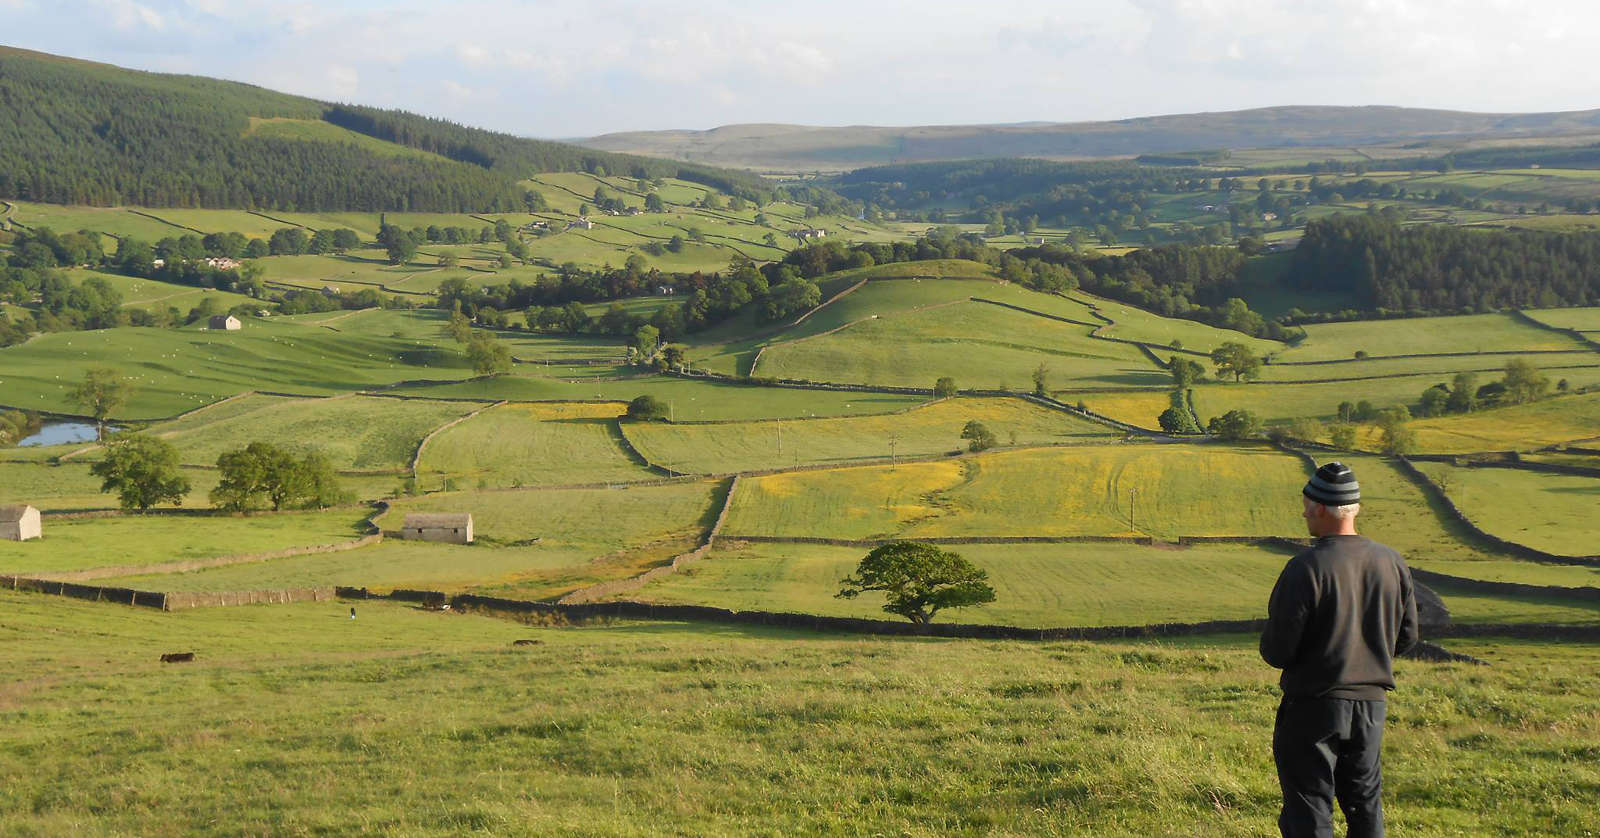
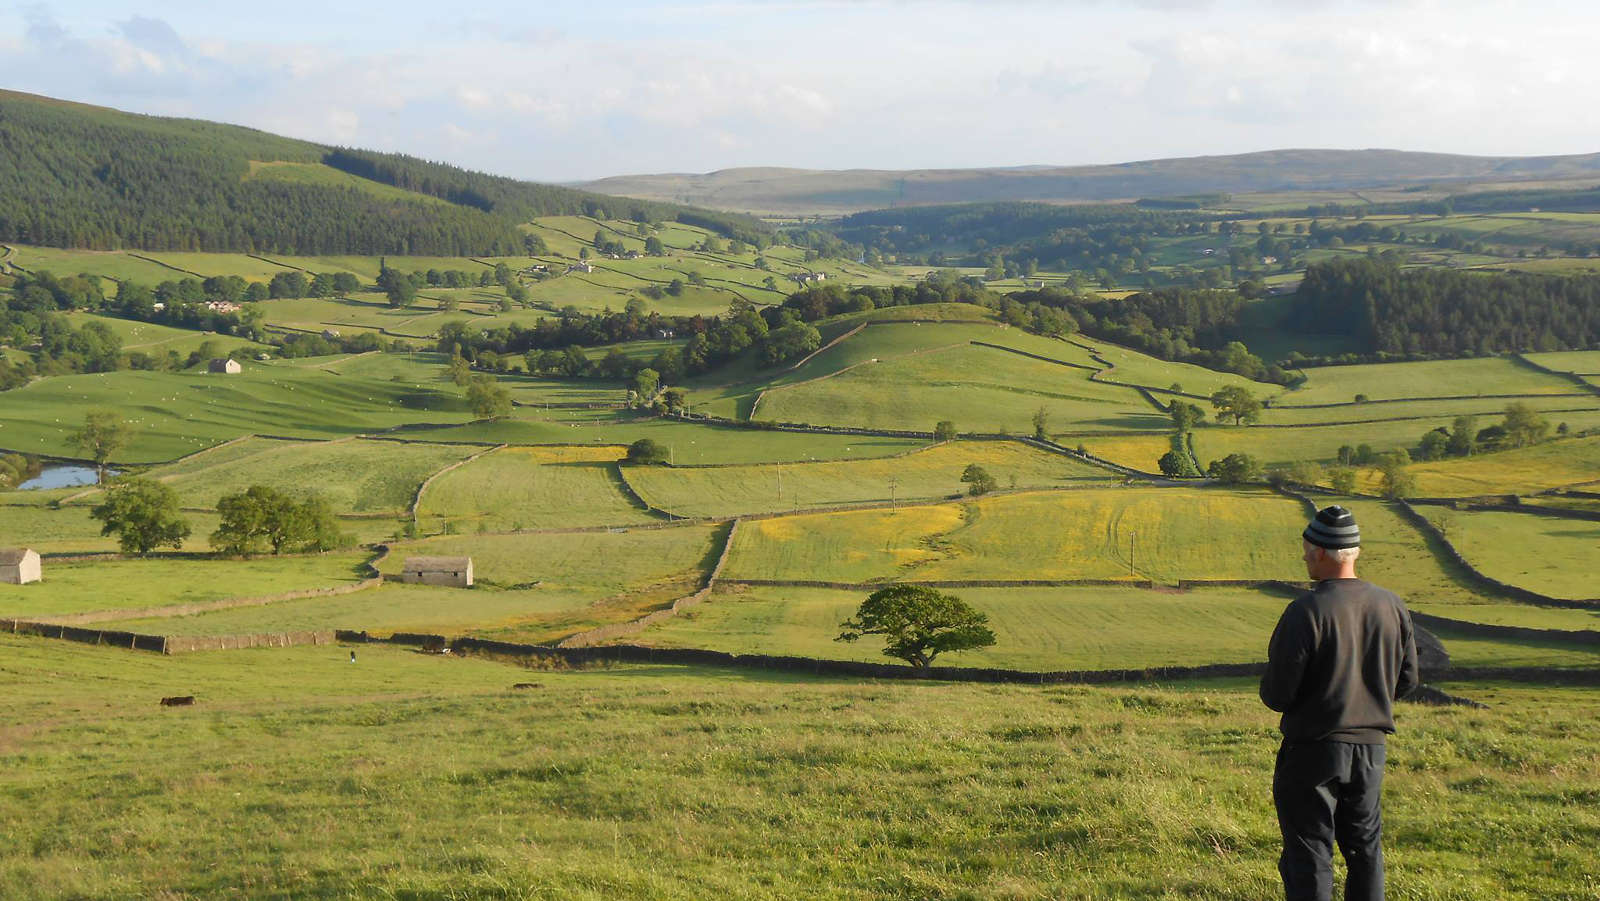
updated git ignore to include DS. modified bigview to correct res. removed the muckspreader image and used campsite. Updated index.html to reflect changes.

diff --git a/index.html b/index.html
@@ -190,8 +190,8 @@
 <!-- Container (The farm Section) -->
 <div id="camping" class="container text-center">
   <h3>CAMPING ON THE FARM</h3>
-  <p><em>"A proper working farm in North Yorkshire"</em></p>
-  <p>Welcome to Howarth Farm, a functioning farm and campsite set in the heart of the Yorkshire Dales. We have plots for tents, campervans and caravans and run from March until the cold gets too much! (Usually October). Onsite we have toilets and showers but no electrical hookups for tents or campervans. Static caravans can be rented on a long term basis, please send any queries about caravans to the e-mail address in the contact us section. See below for prices and also a list of local activities, North yorkshire has lots to offer! We do not allow large groups of adults or fires. Please note this is a functioning farm with machinery, tractors, cows, dogs & chickens on site. The local towns of Skipton & Grassington are close by and great for day visits.</p>
+  <p><em>"A proper working farm and campsite in North Yorkshire"</em></p>
+  <p>Welcome to Howarth Farm, a functioning farm and campsite set in the heart of the Yorkshire Dales. We have plots for tents, campervans and caravans and run from March until the cold gets too much! (Usually October). Onsite we have toilets and showers but no electrical hookups for tents or campervans. Static caravans can be rented on a long term basis, for more information please contact us using the e-mail addres or phone number in the contact us section. See below for prices and also a list of local activities, North yorkshire has lots to offer! We do not allow large groups of adults. We do not allow naked flames on our grass, but you are free to have a fire if you bring your own BBQ or firepit. Please note this is a functioning farm with machinery, tractors, cows, dogs & chickens on site. The local towns of Skipton & Grassington are close by and great for day visits.</p>
   <br>
   <div class="row">
     <div class="col-sm-4">
@@ -217,9 +217,9 @@
       </div>
     </div>
     <div class="col-sm-4">
-      <p class="text-center"><strong>Functional farm</strong></p><br>
+      <p class="text-center"><strong>Functional farm & Campsite</strong></p><br>
       <a href="#farm3" data-toggle="collapse">
-        <img src="muckspreading.png" class="img-circle person" alt="Functioning farm" width="255" height="255">
+        <img src="campsite.png" class="img-circle person" alt="Functioning farm" width="255" height="255">
       </a>
       <div id="farm3" class="collapse">
         <p>Tractors, machinery and animals</p>
